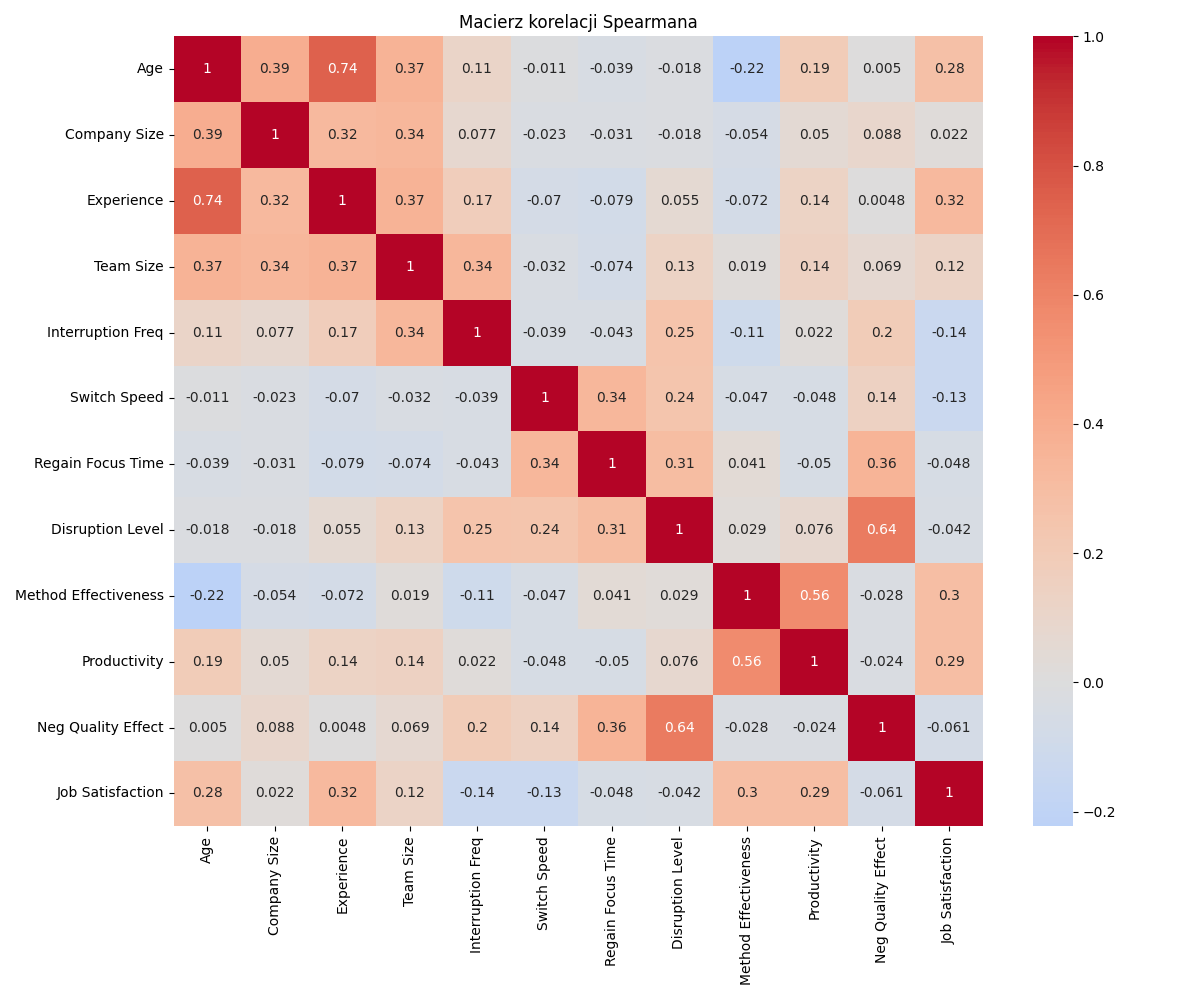
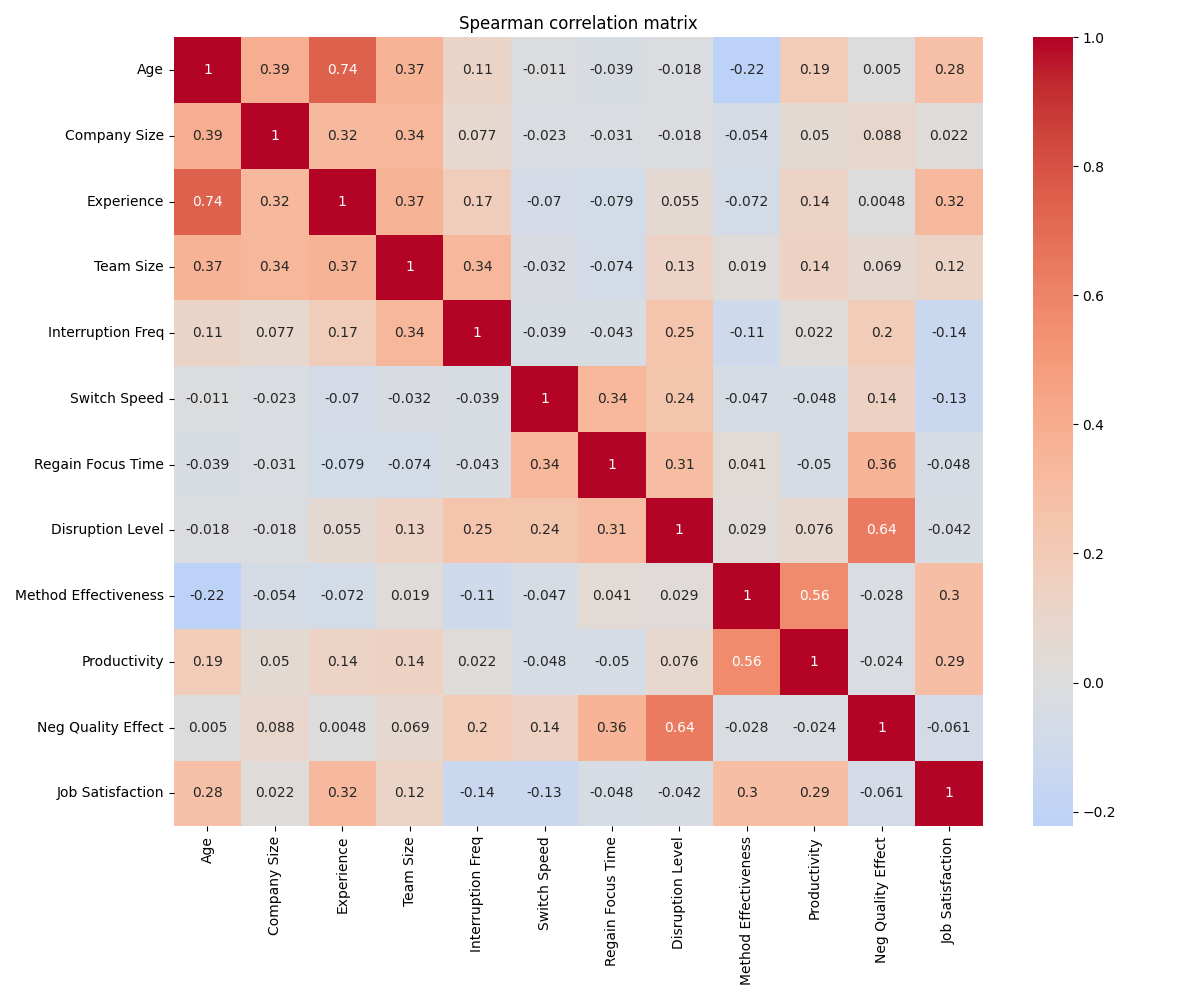
name change to eng

diff --git a/a_korelacja_SPEARMAN.py b/a_korelacja_SPEARMAN.py
@@ -5,7 +5,7 @@ from scipy.stats import spearmanr
 import numpy as np
 
 # 1. Wczytanie danych
-file_path = 'Interruptions in Software Development_ Productivity & Focus Survey(kopia sheet 1 do wykresow).csv'
+file_path = 'Z_Interruptions in Software Development_ Productivity & Focus Survey(kopia sheet 1 do wykresow).csv'
 try:
     df = pd.read_csv(file_path, sep=';', encoding='utf-8')
 except Exception:
@@ -73,7 +73,7 @@ p_values = get_p_values(df_final)
 # Heatmapa
 plt.figure(figsize=(12, 10))
 sns.heatmap(corr_matrix, annot=True, cmap='coolwarm', center=0)
-plt.title('Macierz korelacji Spearmana')
+plt.title('Spearman correlation matrix')
 plt.tight_layout()
 plt.savefig('correlation_heatmap.png')
 
@@ -91,7 +91,7 @@ top_pairs = sorted(pairs, key=lambda x: abs(x[2]), reverse=True)[:3]
 for idx, (v1, v2, r) in enumerate(top_pairs):
     plt.figure(figsize=(8, 6))
     sns.regplot(data=df_final, x=v1, y=v2, x_jitter=0.2, y_jitter=0.2, scatter_kws={'alpha':0.5})
-    plt.title(f'Korelacja: {v1} vs {v2}\nSpearman r = {r:.3f}')
+    plt.title(f'Correlation: {v1} vs {v2}\nSpearman r = {r:.3f}')
     plt.tight_layout()
     plt.savefig(f'top_korelacja_{idx+1}.png')
 
